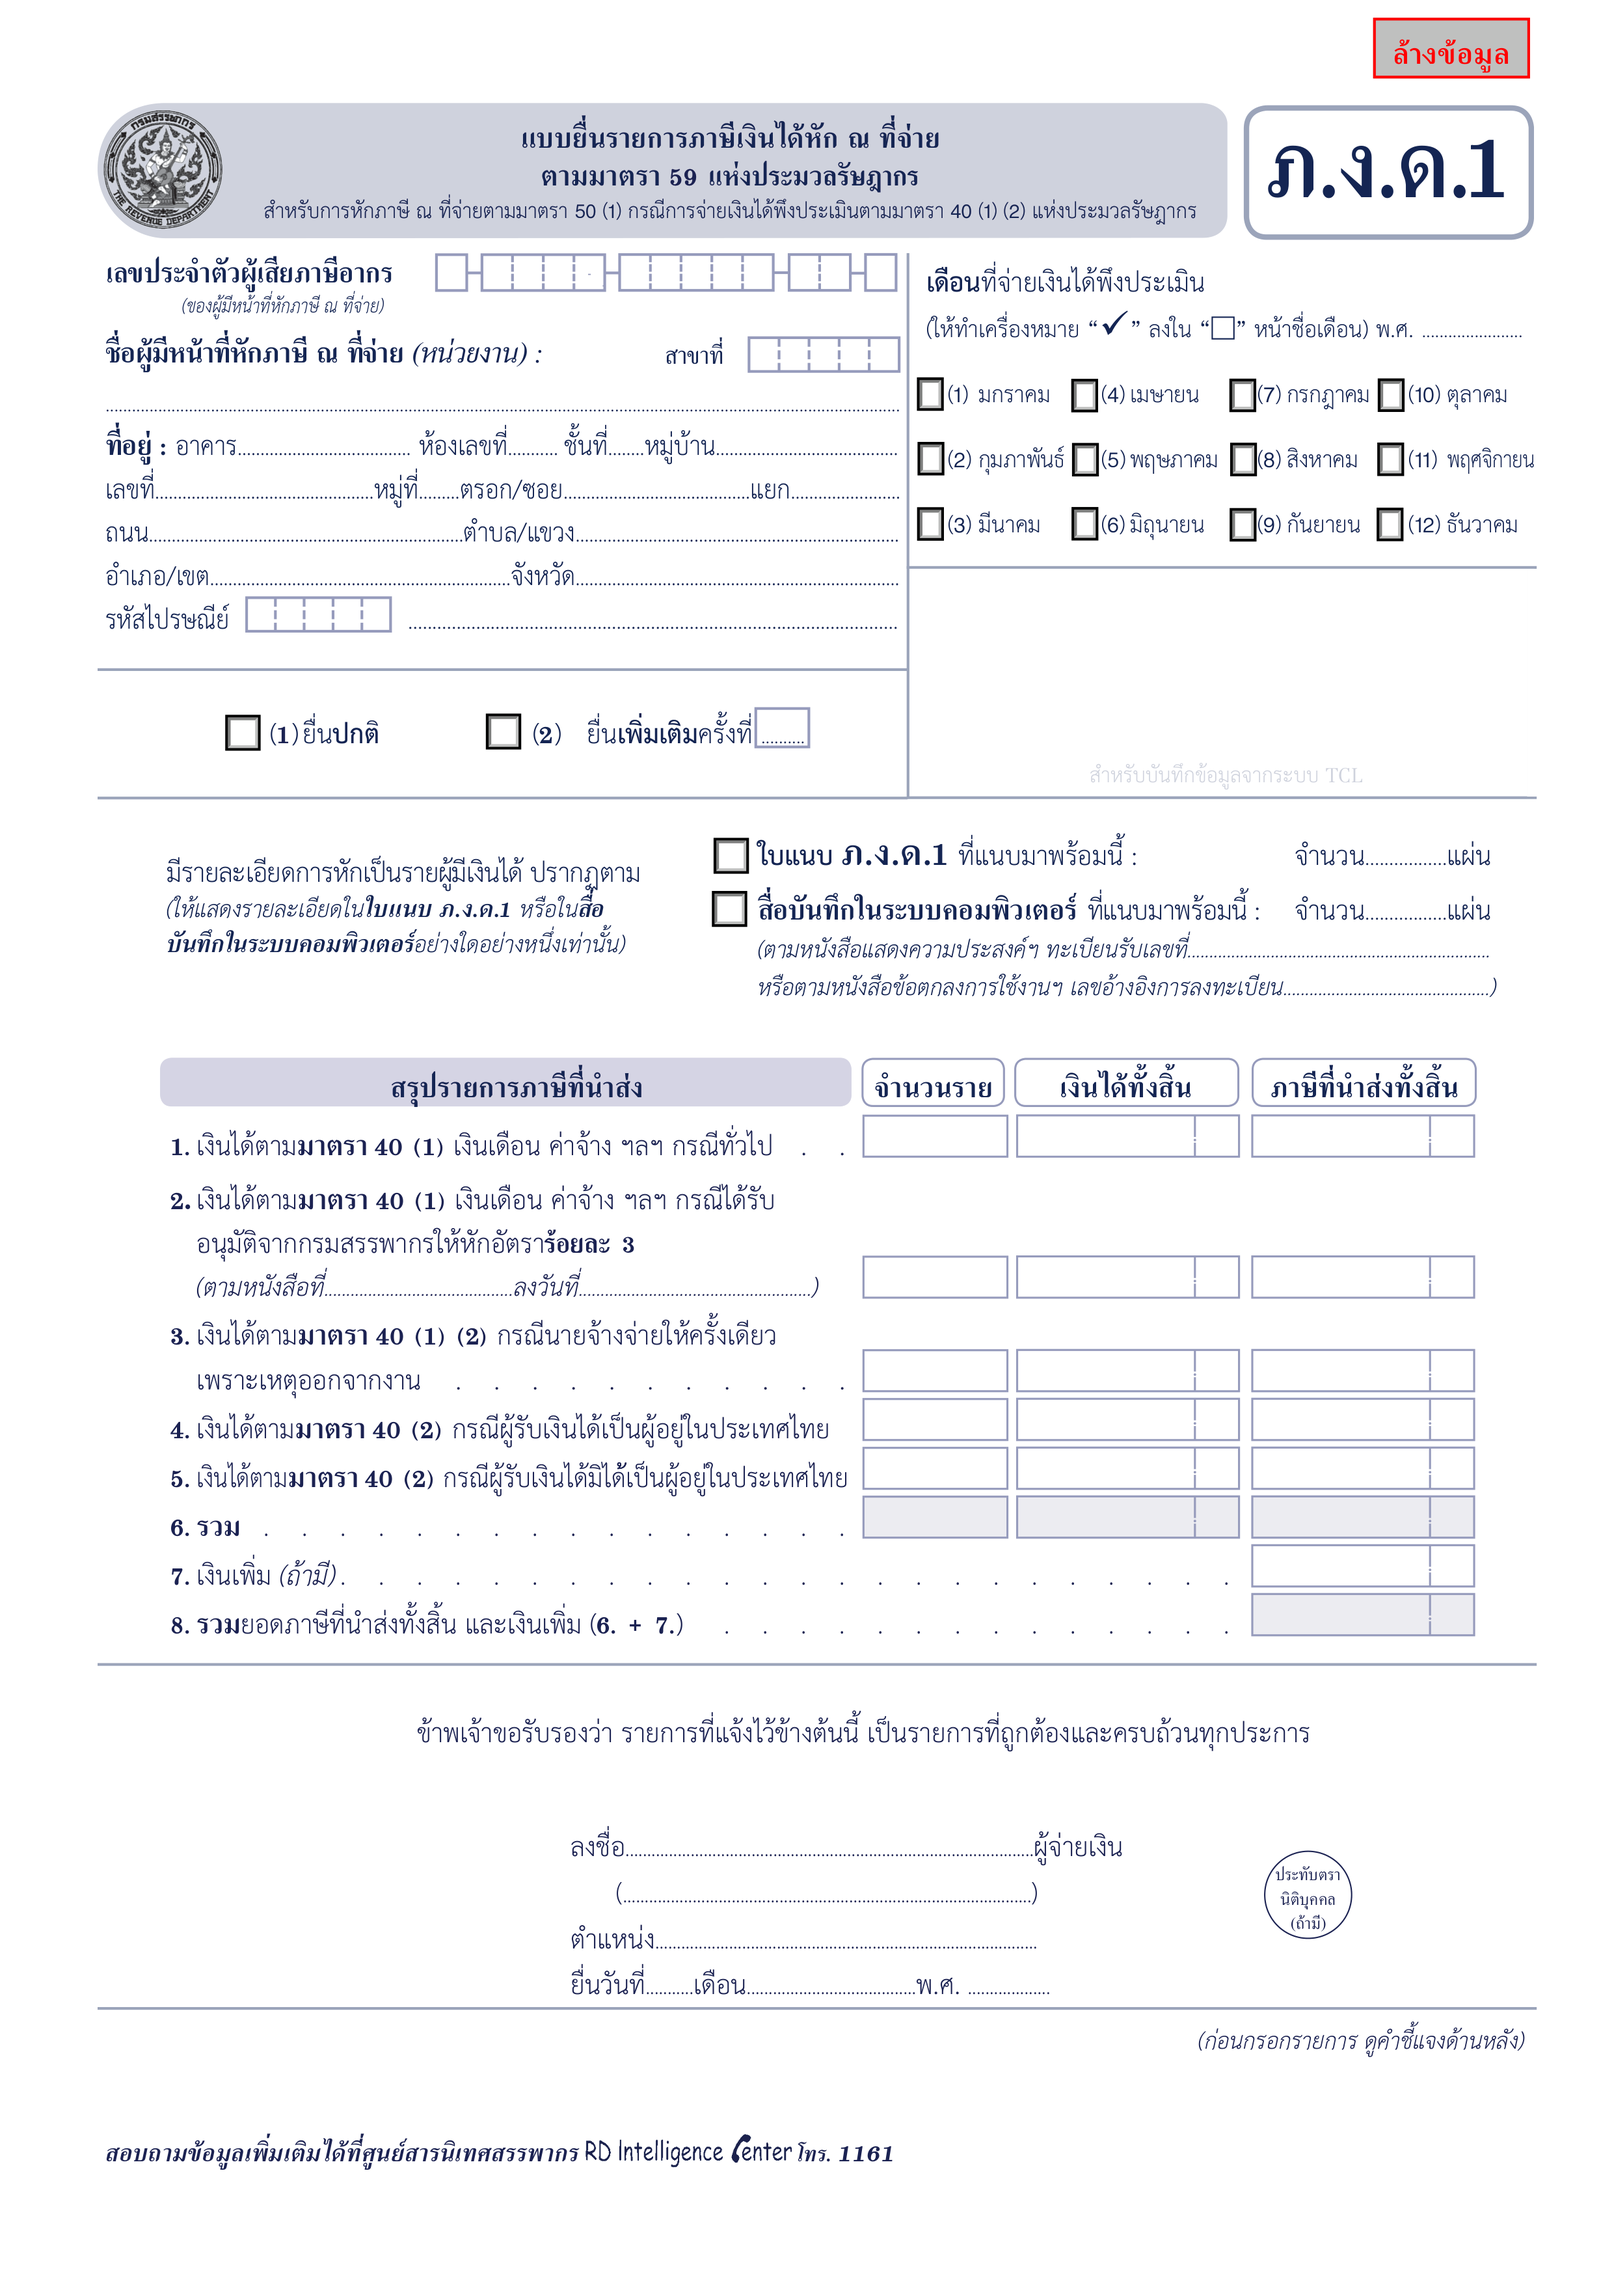
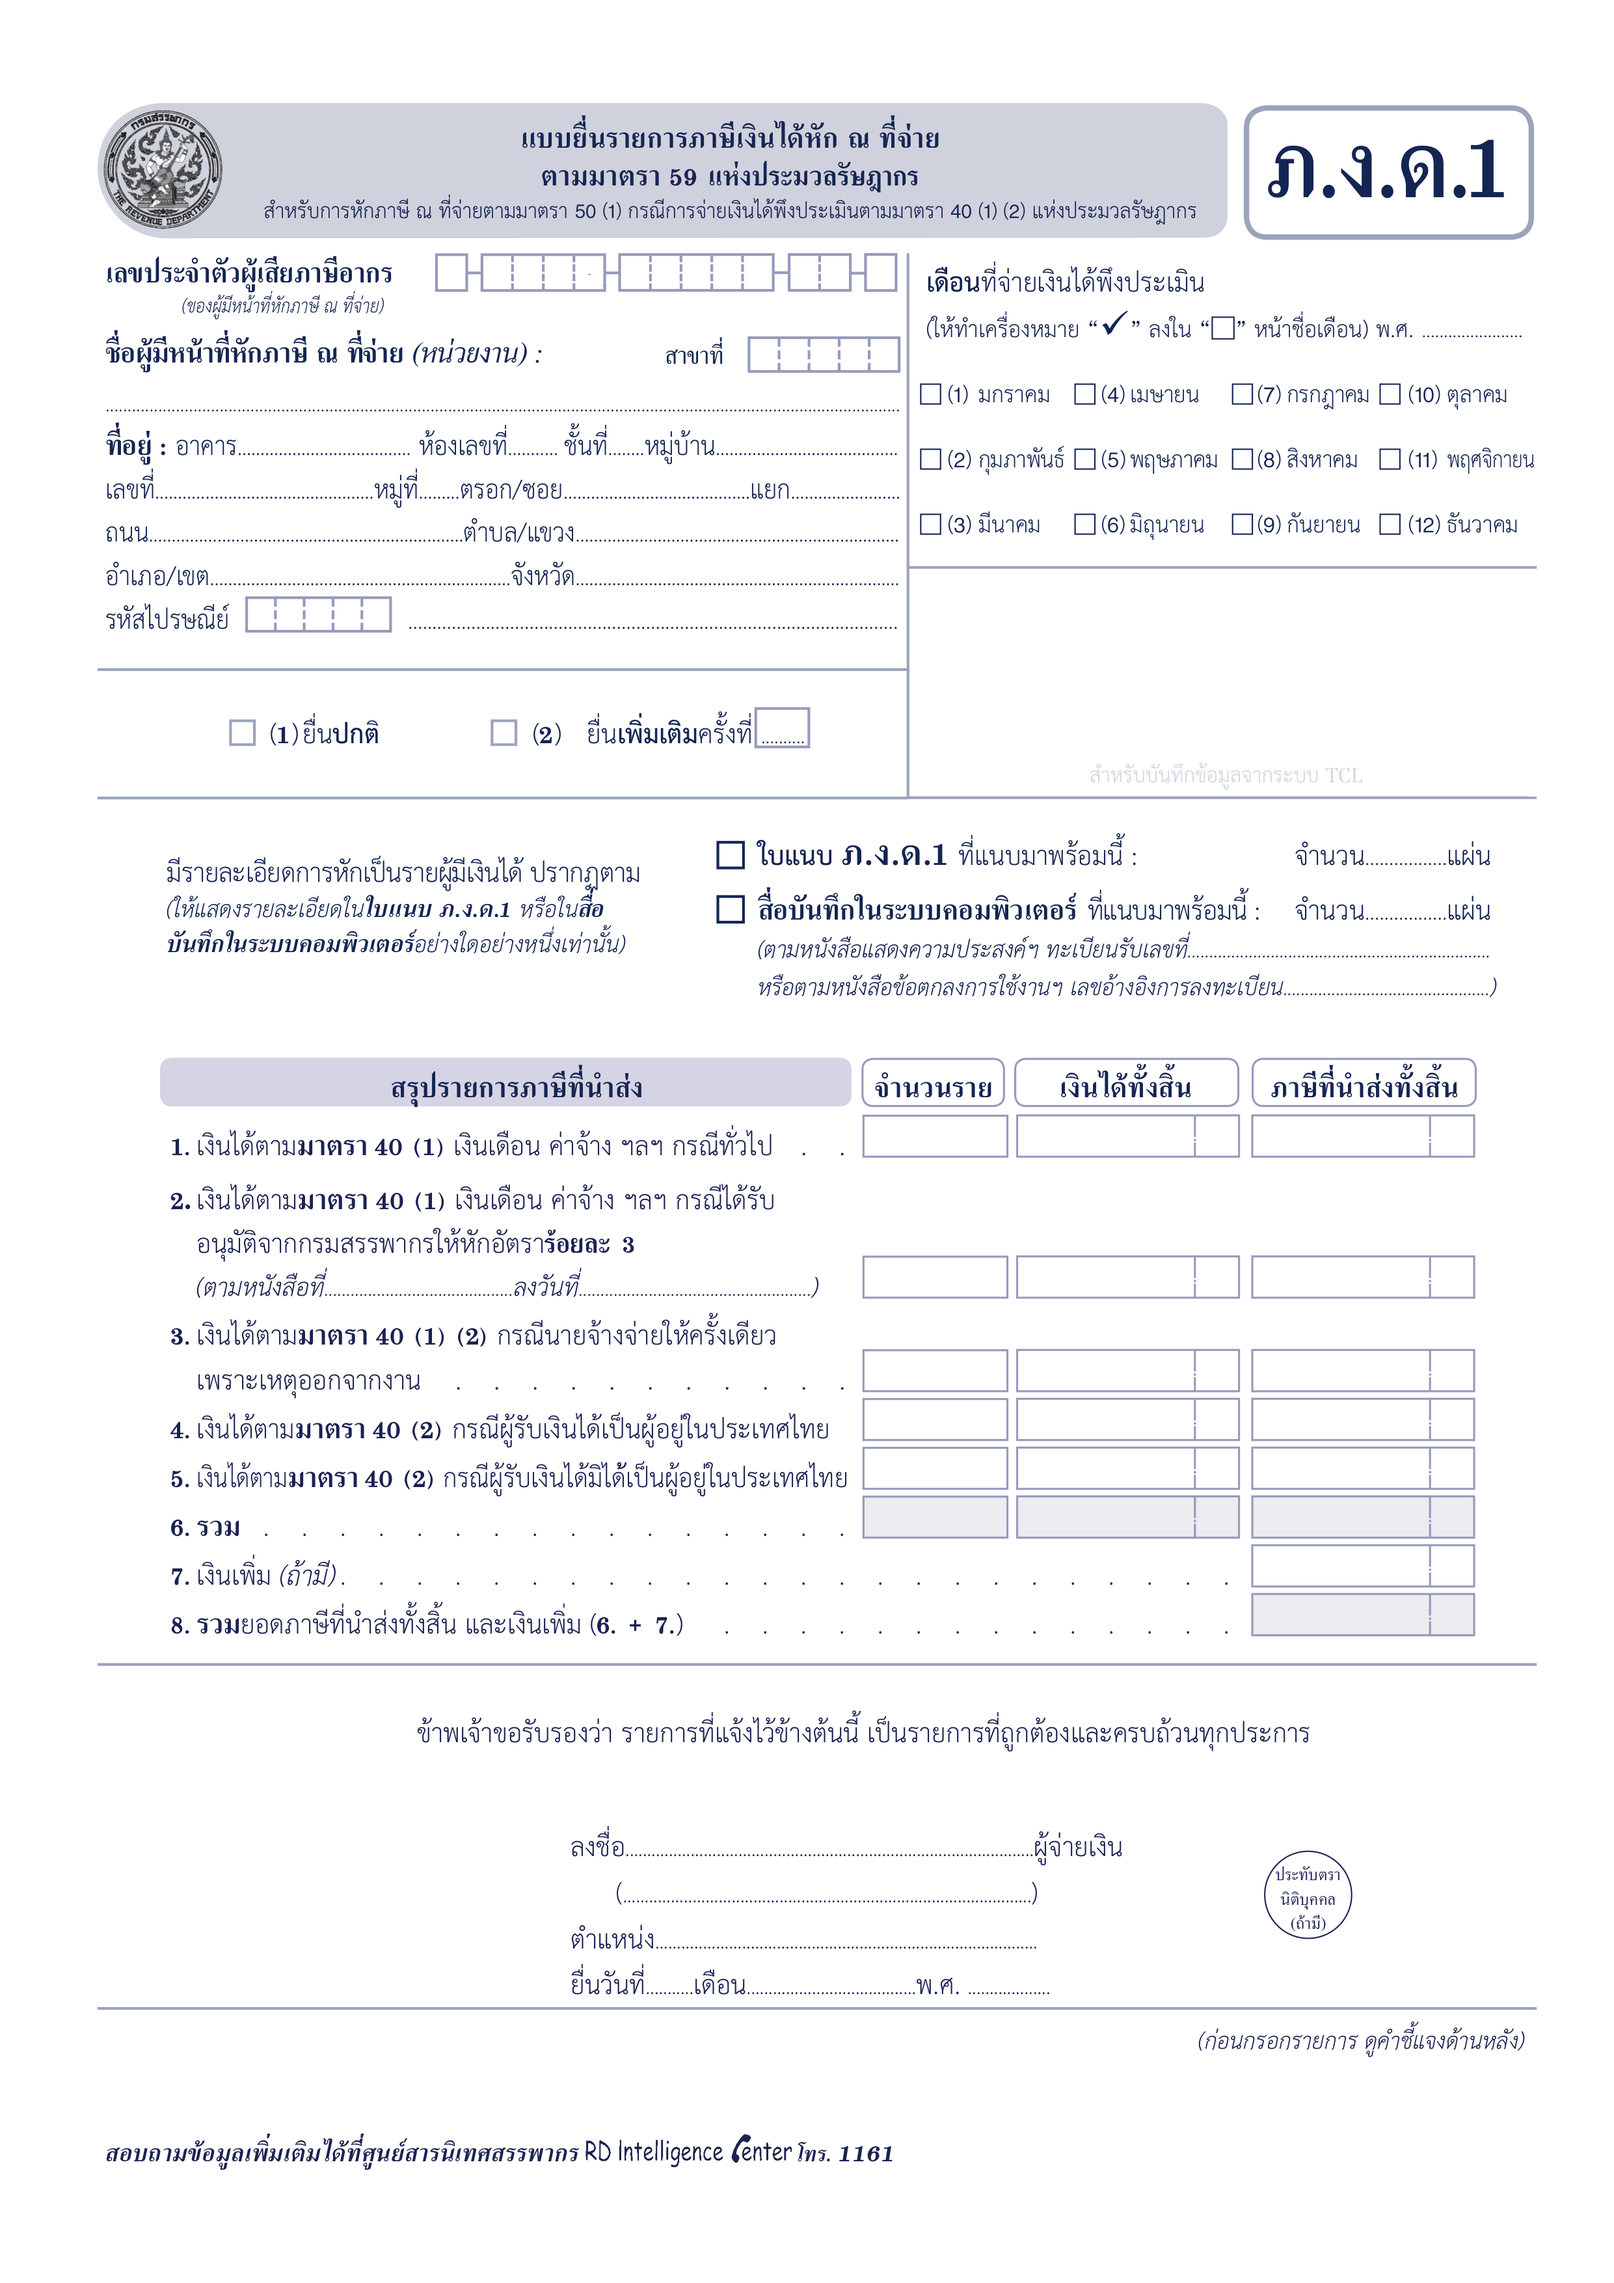
fix(wht): S16 — official-form print quality: rasterize bg with annots=False (the ล้างข้อมูล button is a widget annotation baked into the RD e-form PDF — white-rect alone didn't remove it); paperformat_viva_fullpage (0 margins, no header, disable_shrinking=True — wkhtmltopdf smart-shrinking was scali

diff --git a/vivafarm_report/__manifest__.py b/vivafarm_report/__manifest__.py
@@ -1,6 +1,6 @@
 {
     'name': 'VivaFarm Report Enhancements',
-    'version': '19.0.1.0.213',
+    'version': '19.0.1.0.216',
     'category': 'Accounting/Localizations',
     'summary': 'Thai invoice compliance: signature image, branch info, tax breakdown on invoice report',
     'description': """
